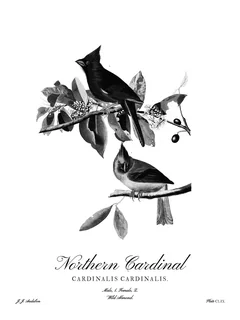
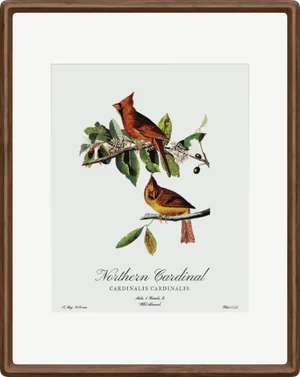
Setup step 1 tells it the way the marketing page does: a cardinal at a feeder, "New detection", the frame turns to it (W-1073)
The song-to-microphone strip read like a diagram. Step 1 now opens on the
marketing page's own scene: the U.S. Fish and Wildlife Service's cardinal
at a feeder (public domain), the phone's "New detection · Northern Cardinal
· Just now" sliding in, and the walnut frame on the feeder repainting from
the Carolina Wren to the cardinal. It plays once; with reduced motion it is
its end. Step 2 shows the walnut frame with the cardinal. Three small webp
files, served like the Worker's icons.

Refs: W-1073

diff --git a/hosted/src/pages.ts b/hosted/src/pages.ts
@@ -614,36 +614,25 @@ const SETUP_STYLE = `<style>
   .card { overflow:hidden; }
   /* The picture is printed on paper in either theme: white, ink drawn on it. */
   .art { margin:-24px -24px 16px; background:#fff; }
-  .story { display:flex; align-items:center; height:172px; padding:12px 20px 14px; }
-  .story.done { justify-content:center; }
-  .story .bird { flex:none; height:140px; width:auto; }
-  .story .wire { position:relative; flex:1 1 0; align-self:stretch; min-width:18px; }
-  .story .sing { position:absolute; left:0; width:11px; height:15px; opacity:0; fill:#5d5348; stroke:#5d5348;
-    animation:sing 1.5s ease-out forwards; }
-  .story .sing svg { display:block; width:100%; height:100%; }
-  .story .n1 { top:30%; --to:62%; animation-delay:.5s; }
-  .story .n2 { top:48%; --to:34%; animation-delay:.85s; }
-  .story .n3 { top:36%; --to:6%; animation-delay:1.2s; }
-  @keyframes sing { from { left:0; opacity:0; transform:translateY(6px); } 25% { opacity:.9; } to { left:var(--to); opacity:.9; transform:none; } }
-  .story .station { position:relative; flex:none; width:26px; }
-  .story .station svg { display:block; width:100%; height:auto; stroke:#2a2723; fill:none; }
-  .story .station::after { content:""; position:absolute; left:50%; top:24%; width:36px; height:36px; margin:-18px 0 0 -18px; border-radius:50%;
-    border:1.5px solid #6b4a2c; opacity:0; animation:ring 1s ease-out 2.3s forwards; }
-  @keyframes ring { from { transform:scale(.4); opacity:.8; } to { transform:scale(1.5); opacity:0; } }
-  .story .data::before { content:""; position:absolute; left:4px; right:4px; top:calc(50% - 1px); border-top:2px dotted #bdb5a8; }
-  .story .dot { position:absolute; top:calc(50% - 4px); left:0; width:8px; height:8px; border-radius:50%; background:#6b4a2c; opacity:0;
-    animation:dot .8s ease-in-out 2.6s forwards; }
-  @keyframes dot { from { left:0; opacity:0; } 15% { opacity:1; } 85% { opacity:1; } to { left:calc(100% - 8px); opacity:0; } }
-  .story .pframe { flex:none; width:84px; padding:5px; background:#1d1b18; border-radius:2px; box-shadow:0 2px 6px rgba(40,30,15,.25); }
-  .story.done .pframe { width:110px; padding:6px; }
-  .story .pmat { position:relative; display:block; aspect-ratio:3 / 4; background:#fbfaf6; }
-  .story .pmat img { position:absolute; inset:0; width:100%; height:100%; display:block; }
-  .story .pmat img.swap { opacity:0; animation:swap .6s ease 3.3s forwards; }
-  @keyframes swap { to { opacity:1; } }
+  .hero { position:relative; height:198px; background:#cfcdc8 url("/_ff/setup-photo.webp") 30% 50% / cover no-repeat; }
+  .hero.done { background:#f1eee8; display:flex; align-items:center; justify-content:center; }
+  .hero .ping { position:absolute; left:12px; top:12px; display:flex; align-items:center; gap:9px; padding:7px 12px 7px 7px; max-width:calc(100% - 24px);
+    background:#fff; border-radius:11px; box-shadow:0 6px 18px rgba(20,16,10,.22); color:#121212;
+    opacity:0; transform:translate(-10px, -6px); animation:ping .5s cubic-bezier(.2, .8, .2, 1) .7s forwards; }
+  .hero .ping .ic { flex:none; display:grid; place-items:center; width:30px; height:30px; border-radius:50%; background:#121212; }
+  .hero .ping .ic svg { width:16px; height:16px; fill:none; stroke:#fff; stroke-width:2; stroke-linecap:round; }
+  .hero .ping .tx { display:flex; flex-direction:column; min-width:0; }
+  .hero .ping .k { font-size:11px; line-height:1.3; color:#6b6b69; }
+  .hero .ping .nm { font-size:14px; font-weight:600; line-height:1.3; white-space:nowrap; }
+  .hero .ping .when { align-self:flex-start; margin-left:8px; font-size:11px; line-height:1.3; color:#6b6b69; white-space:nowrap; }
+  @keyframes ping { to { opacity:1; transform:none; } }
+  .hero .wall { position:absolute; right:14px; bottom:10px; width:96px; aspect-ratio:300 / 377; filter:drop-shadow(0 8px 14px rgba(20,16,10,.35)); }
+  .hero.done .wall { position:relative; right:auto; bottom:auto; width:118px; }
+  .hero .wall img { position:absolute; inset:0; width:100%; height:100%; display:block; }
+  .hero .wall img.to { opacity:0; animation:repaint .7s ease 1.9s forwards; }
+  @keyframes repaint { 0% { opacity:0; filter:brightness(1); } 35% { opacity:1; filter:brightness(.15); } 100% { opacity:1; filter:none; } }
   @media (prefers-reduced-motion: reduce) {
-    .story .sing, .story .dot, .story .station::after, .story .pmat img.swap { animation:none; }
-    .story .sing { left:var(--to); opacity:.9; }
-    .story .pmat img.swap { opacity:1; }
+    .hero .ping, .hero .wall img.to { animation:none; opacity:1; transform:none; }
   }
   .step + .step { margin-top:22px; }
   .stepped .step + .step { margin-top:0; }
@@ -688,21 +677,16 @@ export function setupPage(v: SetupView): Response {
     <input type="radio" name="source" value="${value}"${src === value ? " checked" : ""}><span>${name}</span></label></li>`;
   const us = v.country === "US";
   const start = v.step === "email" ? "email" : "source";
-  // Step 1 tells the whole idea in one picture (W-1073): a bird sings near a
-  // station, the station knows it, and the frame turns to that bird's
-  // illustration. It plays once; with reduced motion it is the last frame.
-  const NOTE = `<svg viewBox="0 0 12 16"><ellipse cx="4.2" cy="12.6" rx="3.2" ry="2.4" transform="rotate(-22 4.2 12.6)"/><path d="M7.1 12.4V1.6c2.6.6 4 2.2 4.1 4.6" fill="none" stroke-width="1.5" stroke-linecap="round"/></svg>`;
-  const frame = (wren: boolean) => `<span class="pframe"><span class="pmat">${
-    wren ? "" : `<img src="/_ff/setup-frame-cardinal.webp" alt="" width="240" height="320">`}<img class="${wren ? "" : "swap"}" src="/_ff/setup-frame-wren.webp" alt="" width="240" height="320"></span></span>`;
-  const story = () => `<div class="art story" aria-hidden="true">
-            <img class="bird" src="/_ff/setup-wren.webp" alt="" width="300" height="453">
-            <span class="wire song"><i class="sing n1">${NOTE}</i><i class="sing n2">${NOTE}</i><i class="sing n3">${NOTE}</i></span>
-            <span class="station"><svg viewBox="0 0 40 64"><rect x="12" y="3" width="16" height="27" rx="8" fill="none" stroke-width="2.2"/><path d="M15.5 11h3M15.5 16h3M15.5 21h3" stroke-width="1.5" stroke-linecap="round"/><path d="M7 21v3a13 13 0 0 0 26 0v-3M20 37v19M12 58h16" fill="none" stroke-width="2.2" stroke-linecap="round"/></svg></span>
-            <span class="wire data"><i class="dot"></i></span>
-            ${frame(false)}
-          </div>`;
+  // Step 1 says what the frame does the way the marketing page does (W-1073):
+  // a cardinal at a feeder, the phone's "New detection", and the frame on the
+  // shelf turning to it. It plays once; with reduced motion it is its end.
+  const wall = (to: boolean) => `<span class="wall">${to ? "" : `<img src="/_ff/setup-frame-wren.webp" alt="" width="300" height="377">`}<img class="${to ? "" : "to"}" src="/_ff/setup-frame-cardinal.webp" alt="" width="300" height="377"></span>`;
   const art = (name: string) => name === "account"
-    ? `<div class="art story done" aria-hidden="true">${frame(true)}</div>` : story();
+    ? `<div class="art hero done" aria-hidden="true">${wall(true)}</div>`
+    : `<div class="art hero" aria-hidden="true">
+            <span class="ping"><span class="ic"><svg viewBox="0 0 24 24"><path d="M3.5 10.5v3M7 7.5v9M10.5 4.5v15M14 8v8M17.5 9.5v5M21 11v2"/></svg></span><span class="tx"><span class="k">New detection</span><span class="nm">Northern Cardinal</span></span><span class="when">Just now</span></span>
+            ${wall(false)}
+          </div>`;
   const head = (n: number, title: string, id = "") => `<div class="head"><h2 tabindex="-1"${id ? ` id="${id}"` : ""}><span class="sr">Step ${n} of 2. </span>${title}</h2>
           <span class="dots" aria-hidden="true"><i class="on"></i><i${n === 2 ? ' class="on"' : ""}></i></span></div>`;
   return page("Set up your frame · Featherframe", `${SETUP_STYLE}

diff --git a/hosted/src/viewers.ts b/hosted/src/viewers.ts
@@ -20,10 +20,11 @@ import favicon192 from "../../server/static/favicon-192.png";
 import favicon32 from "../../server/static/favicon-32.png";
 import faviconIco from "../../server/static/favicon.ico";
 import touchIcon from "../../server/static/apple-touch-icon.png";
-// The phone setup page's pictures (W-1073): the singing wren of Havell
-// plate 78 (cut from the scan, its paper evened to white), and that plate and
-// the Northern Cardinal as the gray kit draws them (featherframe.preview).
-import setupWren from "./art/setup-wren.webp";
+// The phone setup page's pictures (W-1073), the marketing page's own: a
+// still of the U.S. Fish and Wildlife Service's cardinal at a feeder (public
+// domain, Courtney Celley), and the walnut frame as site/public/img/wall
+// renders it with the Carolina Wren and the Northern Cardinal.
+import setupPhoto from "./art/setup-photo.webp";
 import setupFrameWren from "./art/setup-frame-wren.webp";
 import setupFrameCardinal from "./art/setup-frame-cardinal.webp";
 
@@ -223,7 +224,7 @@ export function pageIcon(path: string): Response | null {
     : path === "/static/favicon-32.png" ? [favicon32, "image/png"]
     : path === "/static/apple-touch-icon.png" ? [touchIcon, "image/png"]
     : path === "/favicon.ico" ? [faviconIco, "image/x-icon"]
-    : path === "/_ff/setup-wren.webp" ? [setupWren, "image/webp"]
+    : path === "/_ff/setup-photo.webp" ? [setupPhoto, "image/webp"]
     : path === "/_ff/setup-frame-wren.webp" ? [setupFrameWren, "image/webp"]
     : path === "/_ff/setup-frame-cardinal.webp" ? [setupFrameCardinal, "image/webp"] : [null, ""];
   return body ? new Response(body, { headers: { "Content-Type": type, "Cache-Control": "max-age=86400" } }) : null;

diff --git a/hosted/test/setup.test.ts b/hosted/test/setup.test.ts
@@ -237,7 +237,7 @@ describe("setting up", () => {
     expect(page).toContain('<div id="bw">');
     expect(page).toContain('<div id="own" hidden>');
     expect(page).toContain("I have my own BirdNET station");
-    expect(page).toContain('src="/_ff/setup-wren.webp"');
+    expect(page).toContain('src="/_ff/setup-frame-cardinal.webp"');
     // Still one form: every field posts together, whichever step is showing.
     expect(page.match(/<form /g)!.length).toBe(1);
     expect(page).toContain('<button type="submit" id="go">Set up frame</button>');
